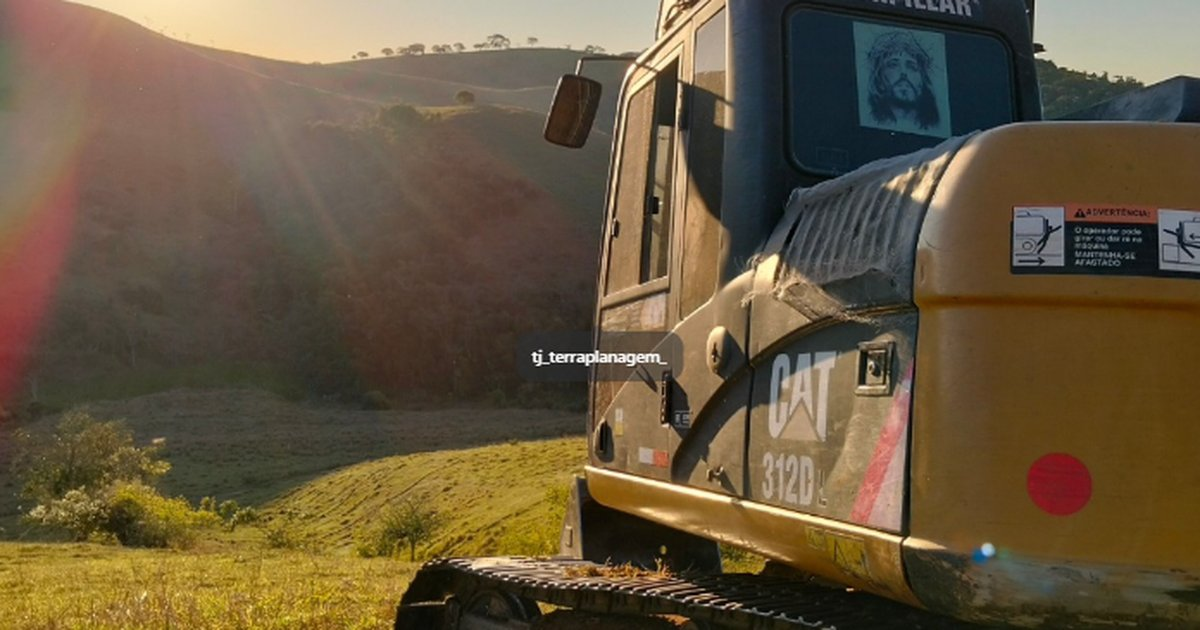
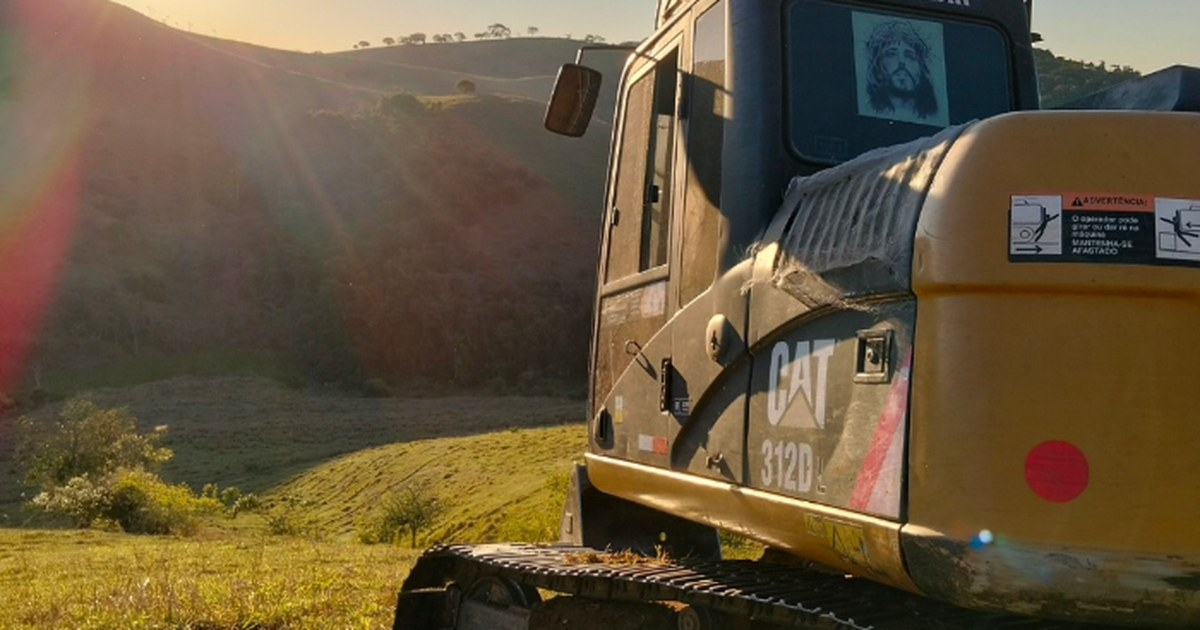
Usar foto 2 escavadeira CAT no por do sol para previa WhatsApp

diff --git a/app/layout.tsx b/app/layout.tsx
@@ -2,7 +2,7 @@ import type { Metadata } from "next";
 import "./globals.css";
 
 const siteUrl = "https://site-tj-terraplanagem.pages.dev";
-const ogImageUrl = `${siteUrl}/images/og-image.jpg`;
+const ogImageUrl = `${siteUrl}/images/og-image.jpg?v=3`;
 
 export const metadata: Metadata = {
   metadataBase: new URL(siteUrl),
@@ -19,7 +19,7 @@ export const metadata: Metadata = {
         width: 1200,
         height: 630,
         type: "image/jpeg",
-        alt: "TJ Terraplanagem - Escavadeira em operação",
+        alt: "TJ Terraplanagem - Escavadeira CAT 312D ao pôr do sol",
       },
     ],
     locale: "pt_BR",
@@ -39,6 +39,7 @@ export default function RootLayout({ children }: Readonly<{ children: React.Reac
       <head>
         <meta property="og:type" content="website" />
         <meta property="og:url" content={siteUrl} />
+        <meta property="og:site_name" content="TJ Terraplanagem" />
         <meta property="og:title" content="TJ Terraplanagem | O terreno certo para grandes projetos" />
         <meta property="og:description" content="Terraplanagem, escavações e locação de equipamentos em Paraíba do Sul - RJ e região." />
         <meta property="og:image" content={ogImageUrl} />
